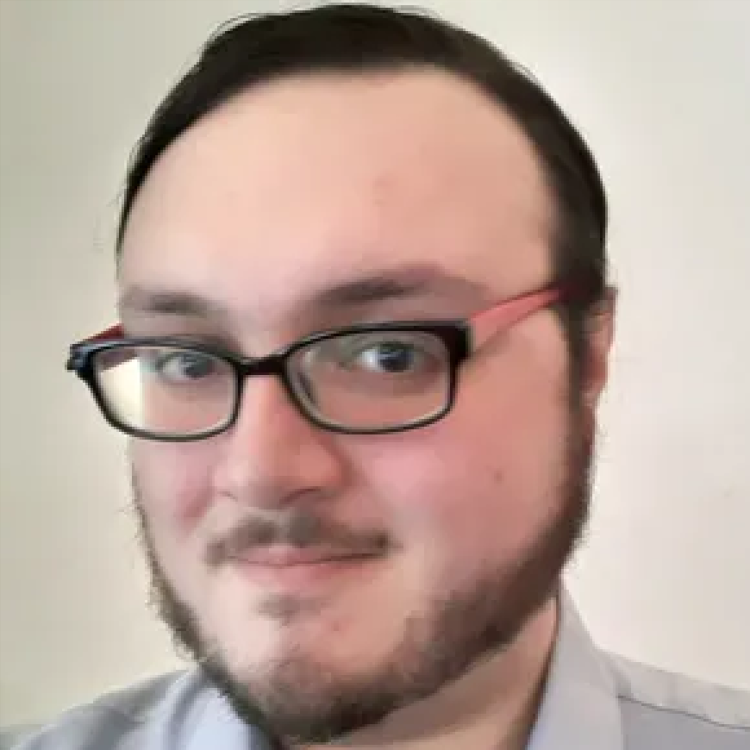
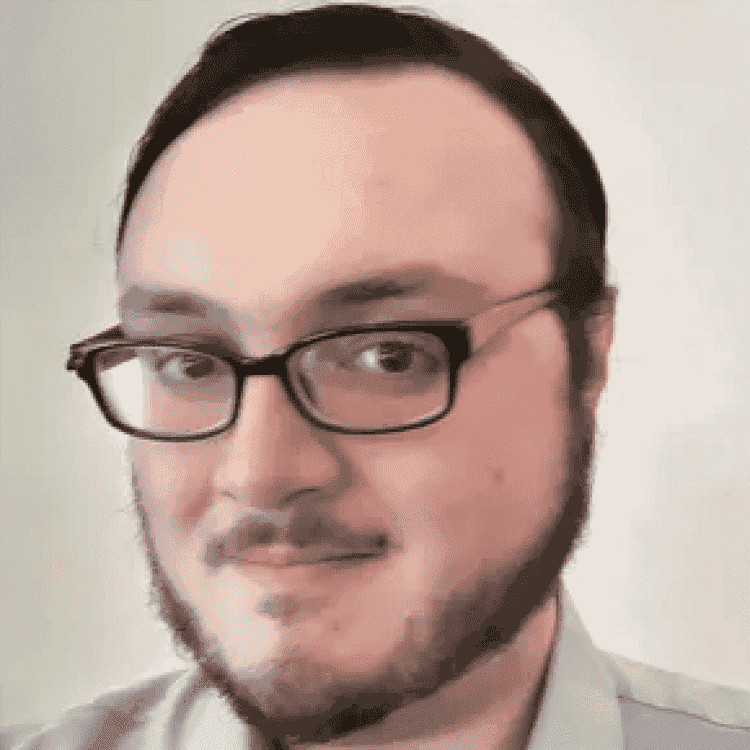
Add overlay to project cards for enhanced visual depth

diff --git a/index.html b/index.html
@@ -113,6 +113,8 @@
                   alt="Vista previa del proyecto Triple Espresso"
                 />
 
+                <div class="project-card__overlay"></div>
+
                 <div class="project-card__actions">
                   <a
                     class="project-card__icon-link"